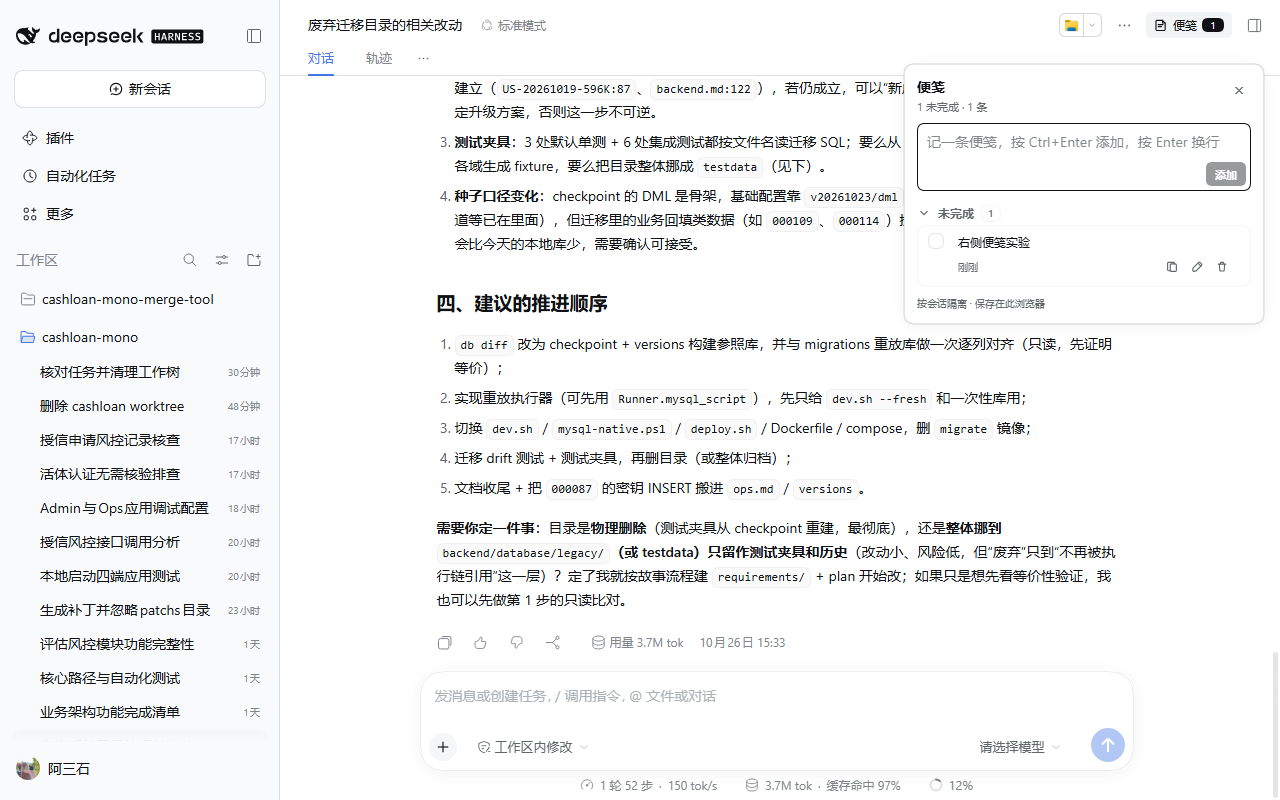
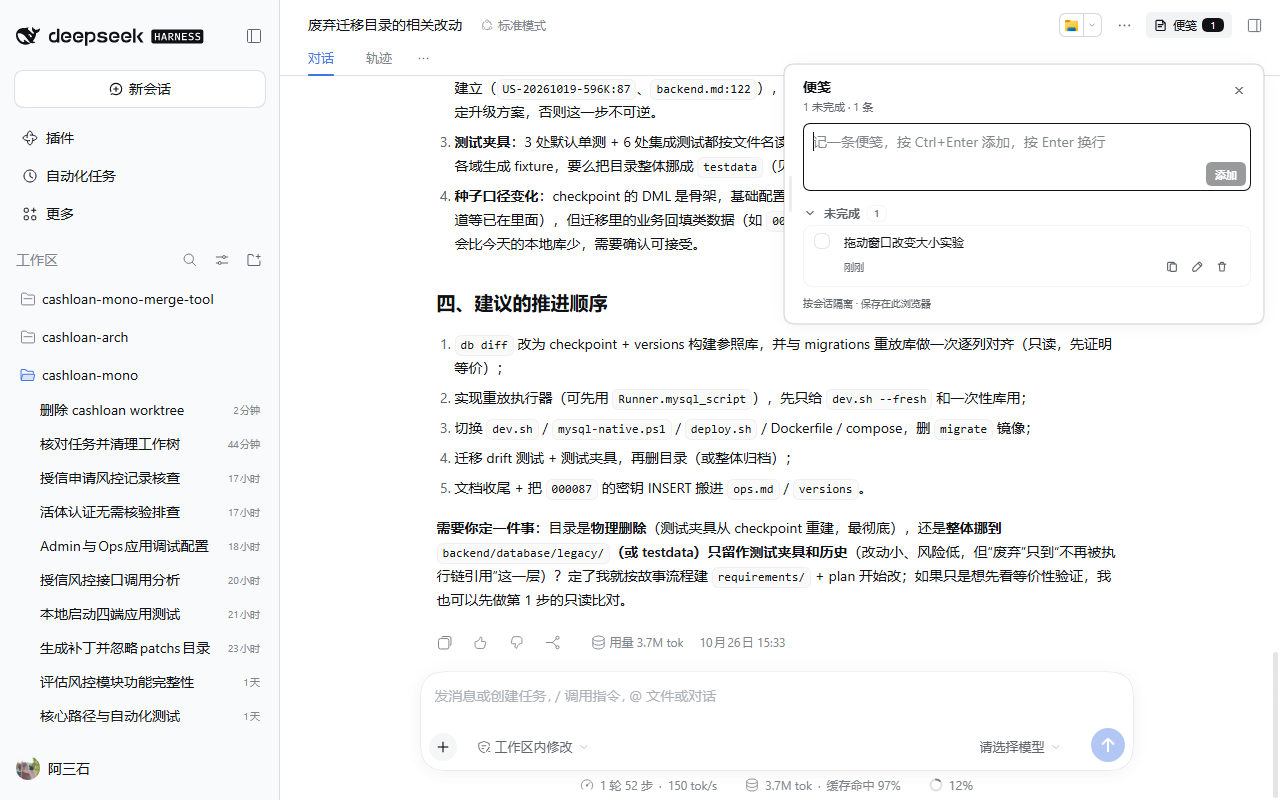
feat: resize the right notes panel by dragging

diff --git a/client.js b/client.js
@@ -14,6 +14,11 @@ window.__ModuleLoader__.load({
     const STORAGE_KEY = 'dsh.workspace-todos.v1'
     /** Session-scoped memo store used by the badge, popover, and composer entries. */
     const SESSION_STORAGE_KEY = 'dsh.session-memos.v1'
+    /** Persisted width of the experimental right-side panel. */
+    const PANEL_WIDTH_KEY = 'dsh.memo.panel-width.v1'
+    const PANEL_DEFAULT_WIDTH = 360
+    const PANEL_MIN_WIDTH = 280
+    const PANEL_MAX_WIDTH = 720
     /** A note is meant to stay brief; this is the hard cap. */
     const MAX_TEXT = 280
     /** Defensive cap so a corrupted store cannot freeze the panel. */
@@ -260,6 +265,11 @@ window.__ModuleLoader__.load({
       '[data-row-key^="session:"]:has(> .dsh-wt-badge) > [class*="_title"]{flex:0 1 auto}',
       '[data-row-key^="session:"]:has(> .dsh-wt-badge) > [class*="_time"]{display:none}',
       '.dsh-wt-popover{position:fixed;z-index:1000;box-sizing:border-box;display:flex;flex-direction:column;min-height:0;padding:12px;border:1px solid var(--dsw-alias-border-l2);border-radius:12px;background:var(--dsw-alias-bg-layer-1);box-shadow:var(--dsw-elevation-soft);color:var(--dsw-alias-label-primary);font-size:13px;overflow:hidden}',
+      '.dsh-wt-popoverRight{padding-left:18px}',
+      '.dsh-wt-resizeHandle{position:absolute;left:0;top:0;bottom:0;z-index:2;display:flex;align-items:center;justify-content:center;width:10px;cursor:ew-resize;touch-action:none;outline:0}',
+      '.dsh-wt-resizeHandle::before{content:"";width:3px;height:36px;border-radius:999px;background:var(--dsw-alias-border-l2);opacity:.7;transition:height .12s ease,background .12s ease,opacity .12s ease}',
+      '.dsh-wt-resizeHandle:hover::before,.dsh-wt-resizeHandle:focus-visible::before{height:48px;background:var(--dsw-alias-brand-primary);opacity:1}',
+      '.dsh-wt-resizeHandle:focus-visible{outline:2px solid var(--dsw-alias-brand-primary);outline-offset:-2px;border-radius:8px}',
       '.dsh-wt-popHead{display:flex;align-items:flex-start;justify-content:space-between;gap:12px;margin:0 0 8px}',
       '.dsh-wt-popTitle{font-size:14px;line-height:20px;font-weight:650}',
       '.dsh-wt-popMeta{margin:2px 0 0;font-size:11px;line-height:16px;color:var(--dsw-alias-label-secondary)}',
@@ -486,6 +496,30 @@ window.__ModuleLoader__.load({
         return { version: 1, sessions }
       } catch (error) {
         return emptySessionStore()
+      }
+    }
+
+    /** Read the persisted right-panel width, clamped for the current viewport. */
+    function readPanelWidth() {
+      const ls = storage()
+      const max = Math.min(PANEL_MAX_WIDTH, Math.max(PANEL_MIN_WIDTH, window.innerWidth - 32))
+      try {
+        const saved = ls && Number(ls.getItem(PANEL_WIDTH_KEY))
+        if (Number.isFinite(saved) && saved > 0) return Math.max(PANEL_MIN_WIDTH, Math.min(max, saved))
+      } catch (error) {
+        /* fall through */
+      }
+      return Math.max(PANEL_MIN_WIDTH, Math.min(max, PANEL_DEFAULT_WIDTH))
+    }
+
+    /** Persist the right-panel width so it survives reopening the popover. */
+    function writePanelWidth(width) {
+      const ls = storage()
+      if (!ls) return
+      try {
+        ls.setItem(PANEL_WIDTH_KEY, String(Math.round(width)))
+      } catch (error) {
+        /* storage is best effort */
       }
     }
 
@@ -1415,8 +1449,9 @@ window.__ModuleLoader__.load({
     }
 
     /** Fixed panel placement: a right-side panel for the experimental entry, otherwise below the anchor. */
-    function memoPopoverStyle(anchor, placement) {
-      const width = Math.min(360, window.innerWidth - 24)
+    function memoPopoverStyle(anchor, placement, requestedWidth) {
+      const available = Math.max(PANEL_MIN_WIDTH, window.innerWidth - 32)
+      const width = Math.max(PANEL_MIN_WIDTH, Math.min(PANEL_MAX_WIDTH, available, requestedWidth || PANEL_DEFAULT_WIDTH))
       if (placement === 'right') {
         const top = 64
         const maxHeight = Math.min(560, window.innerHeight - top - 16)
@@ -1443,8 +1478,10 @@ window.__ModuleLoader__.load({
       const [editDraft, setEditDraft] = React.useState('')
       const [showDone, setShowDone] = React.useState(false)
       const [showOpen, setShowOpen] = React.useState(true)
-      const [style, setStyle] = React.useState(() => memoPopoverStyle(props.anchorRef.current, props.placement))
+      const [panelWidth, setPanelWidth] = React.useState(readPanelWidth)
+      const [style, setStyle] = React.useState(() => memoPopoverStyle(props.anchorRef.current, props.placement, panelWidth))
       const panelRef = React.useRef(null)
+      const panelWidthRef = React.useRef(panelWidth)
       const editRef = React.useRef(null)
       const addRef = React.useRef(null)
       const cancelEditRef = React.useRef(false)
@@ -1462,9 +1499,61 @@ window.__ModuleLoader__.load({
 
       const updatePosition = React.useCallback(() => {
         if (props.anchorRef.current || props.placement === 'right') {
-          setStyle(memoPopoverStyle(props.anchorRef.current, props.placement))
+          setStyle(memoPopoverStyle(props.anchorRef.current, props.placement, panelWidth))
         }
-      }, [props.anchorRef, props.placement])
+      }, [props.anchorRef, props.placement, panelWidth])
+
+      React.useEffect(() => {
+        panelWidthRef.current = panelWidth
+      }, [panelWidth])
+
+      const clampPanelWidth = value => {
+        const max = Math.min(PANEL_MAX_WIDTH, Math.max(PANEL_MIN_WIDTH, window.innerWidth - 32))
+        return Math.max(PANEL_MIN_WIDTH, Math.min(max, value))
+      }
+
+      const commitPanelWidth = value => {
+        const next = clampPanelWidth(value)
+        panelWidthRef.current = next
+        setPanelWidth(next)
+        writePanelWidth(next)
+      }
+
+      const startPanelResize = event => {
+        if (event.button !== 0) return
+        event.preventDefault()
+        const startX = event.clientX
+        const startWidth = panelWidthRef.current
+        const onMove = moveEvent => {
+          const next = clampPanelWidth(startWidth + (startX - moveEvent.clientX))
+          panelWidthRef.current = next
+          setPanelWidth(next)
+        }
+        const onUp = () => {
+          window.removeEventListener('pointermove', onMove)
+          window.removeEventListener('pointerup', onUp)
+          document.body.style.userSelect = ''
+          document.body.style.cursor = ''
+          writePanelWidth(panelWidthRef.current)
+        }
+        window.addEventListener('pointermove', onMove)
+        window.addEventListener('pointerup', onUp, { once: true })
+        document.body.style.userSelect = 'none'
+        document.body.style.cursor = 'ew-resize'
+      }
+
+      const onPanelResizeKeyDown = event => {
+        if (event.key === 'ArrowLeft') {
+          event.preventDefault()
+          commitPanelWidth(panelWidthRef.current + 16)
+        } else if (event.key === 'ArrowRight') {
+          event.preventDefault()
+          commitPanelWidth(panelWidthRef.current - 16)
+        } else if (event.key === 'Home') {
+          event.preventDefault()
+          commitPanelWidth(PANEL_DEFAULT_WIDTH)
+        }
+      }
 
       React.useLayoutEffect(() => {
         updatePosition()
@@ -1605,11 +1694,24 @@ window.__ModuleLoader__.load({
         'div',
         {
           ref: panelRef,
-          className: 'dsh-wt-popover',
+          className: props.placement === 'right' ? 'dsh-wt-popover dsh-wt-popoverRight' : 'dsh-wt-popover',
           style,
           role: 'dialog',
           'aria-label': say('popover.title'),
         },
+        props.placement === 'right'
+          ? h('div', {
+              className: 'dsh-wt-resizeHandle',
+              role: 'separator',
+              'aria-orientation': 'vertical',
+              'aria-label': '调整便笺宽度',
+              tabIndex: 0,
+              title: '拖动调整宽度，双击复位',
+              onPointerDown: startPanelResize,
+              onDoubleClick: () => commitPanelWidth(PANEL_DEFAULT_WIDTH),
+              onKeyDown: onPanelResizeKeyDown,
+            })
+          : null,
         h(
           'div',
           { className: 'dsh-wt-popHead' },

diff --git a/README.en.md b/README.en.md
@@ -22,6 +22,7 @@ Clicking it opens a fixed panel on the right. The sidebar title badge and compos
 - A top-right **Notes** button stays available and shows the current session's open count; with no open notes it shows only the label.
 - Clicking it opens a fixed right-side panel; switching sessions closes the old panel and updates the entry.
 - Clicking the entry opens the right-side panel for add, complete, copy, edit (double-click or pencil), delete, clear completed, and expand completed.
+- Drag the handle on the panel's left edge to resize its width; double-click the handle to reset it, and the width persists in the browser.
 - Each note has copy, edit, and delete actions; copy sits to the left of edit and briefly shows **Copied** after a successful copy.
 - The completion circle shares the first line with the note text; copy, edit, and delete sit at the bottom-right beside the time, saving one row.
 - The completion circle is visually 16px inside a 24px hit area, matching the row actions.

diff --git a/README.md b/README.md
@@ -22,6 +22,7 @@
 - 顶部右侧按钮常驻，显示当前会话未完成数；没有未完成项时只显示「便笺」。
 - 点击按钮在窗口右侧打开固定面板；切换会话时自动收起旧面板并更新入口。
 - 点击入口打开右侧面板：添加、打勾完成、复制、双击或铅笔编辑、删除、清除已完成、展开已完成。
+- 拖动面板左边缘把手可调整宽度，双击把手复位；宽度会保存在浏览器中。
 - 每条便笺右侧提供复制、编辑、删除；复制在编辑左侧，复制成功后短暂显示「已复制」。
 - 勾选框与正文第一行合并；复制/编辑/删除放在底部时间行右侧，减少一行空间占用。
 - 完成圆点视觉为 16px，点击区域 24px，与右侧操作按钮更协调。

diff --git a/CHANGELOG.md b/CHANGELOG.md
@@ -1,5 +1,9 @@
 # Changelog
 
+## 1.5.0-experimental.2
+
+- Add a drag handle on the right panel's left edge to resize its width; the width persists across opens, and double-click resets it.
+
 ## 1.5.0-experimental.1
 
 - Experimental branch: move the entry to a top-right header button and open notes in a fixed right-side panel.
